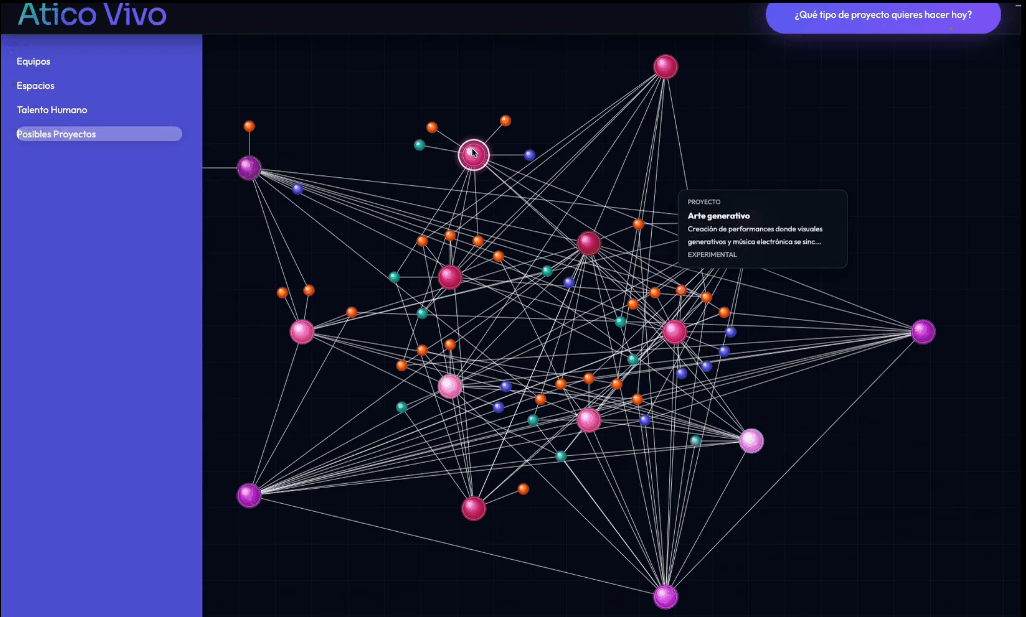
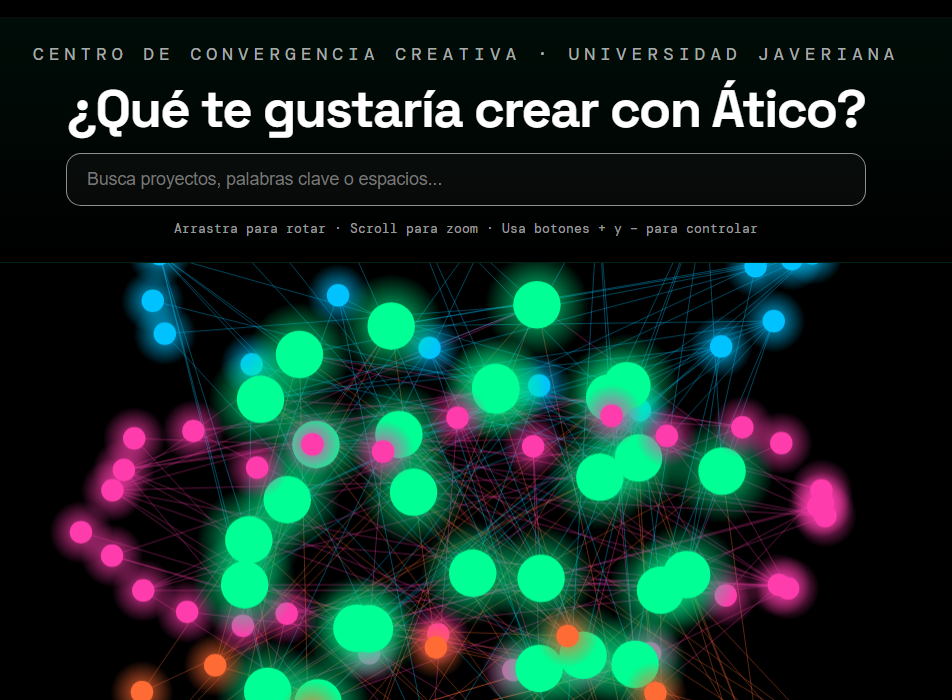
Embed Atico Vivo interactive platform via iframe

diff --git a/aticovivo.html b/aticovivo.html
@@ -77,7 +77,9 @@
 		<div class="portfolio-warp">
 			<div class="row">
 				<div class="col-xl-10 offset-xl-1">
-					<img src="img/atico_vivo_FINAL.gif" alt="Descripción de la foto 1">
+					<div class="embed-responsive embed-responsive-16by9">
+						<iframe class="embed-responsive-item" src="https://milenaor.github.io/plataforma_atico/web/" title="Plataforma Ático Vivo" allowfullscreen loading="lazy"></iframe>
+					</div>
 				</div>				
 			</div>
 		</div>
